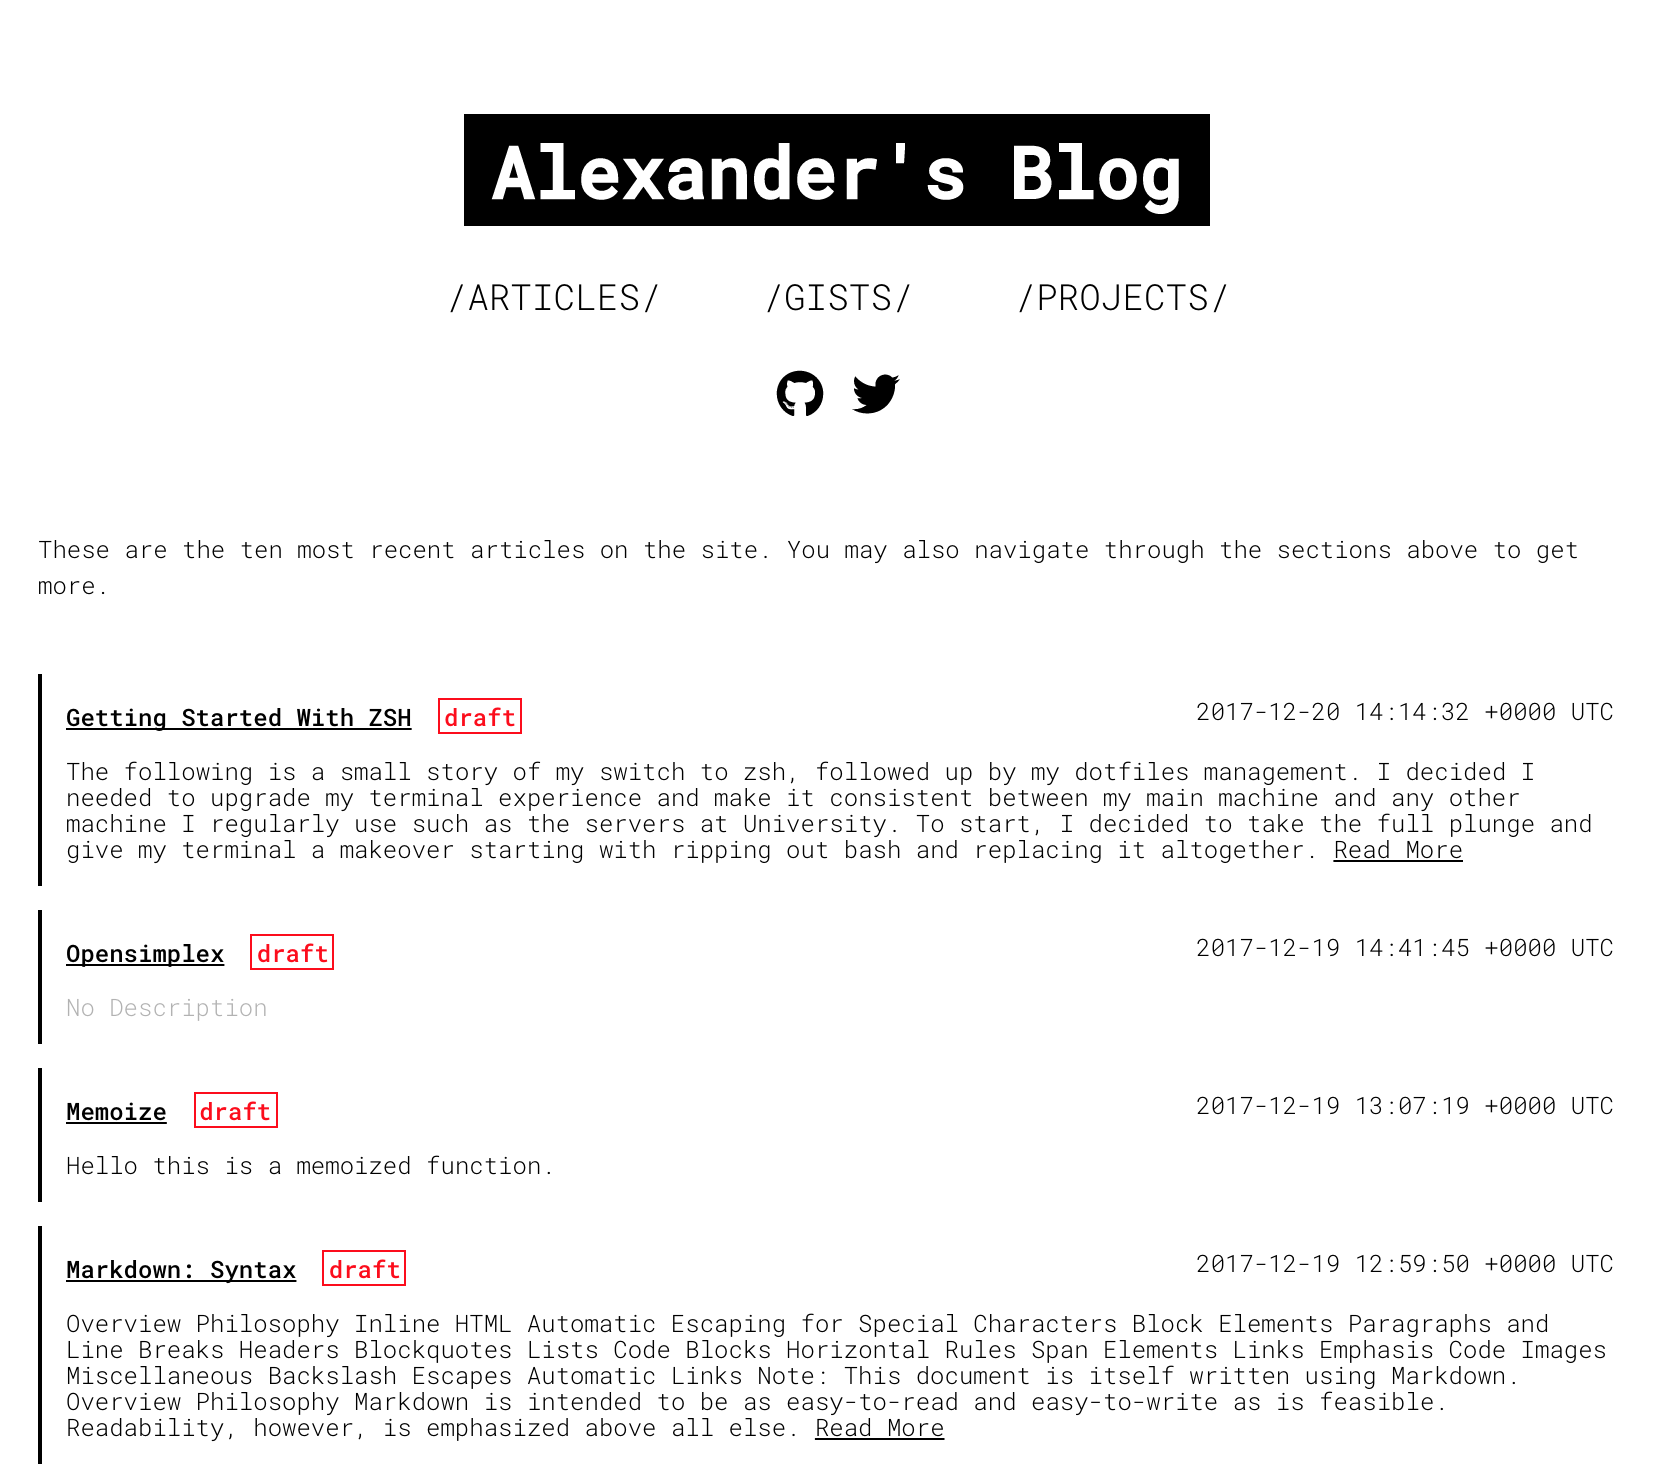
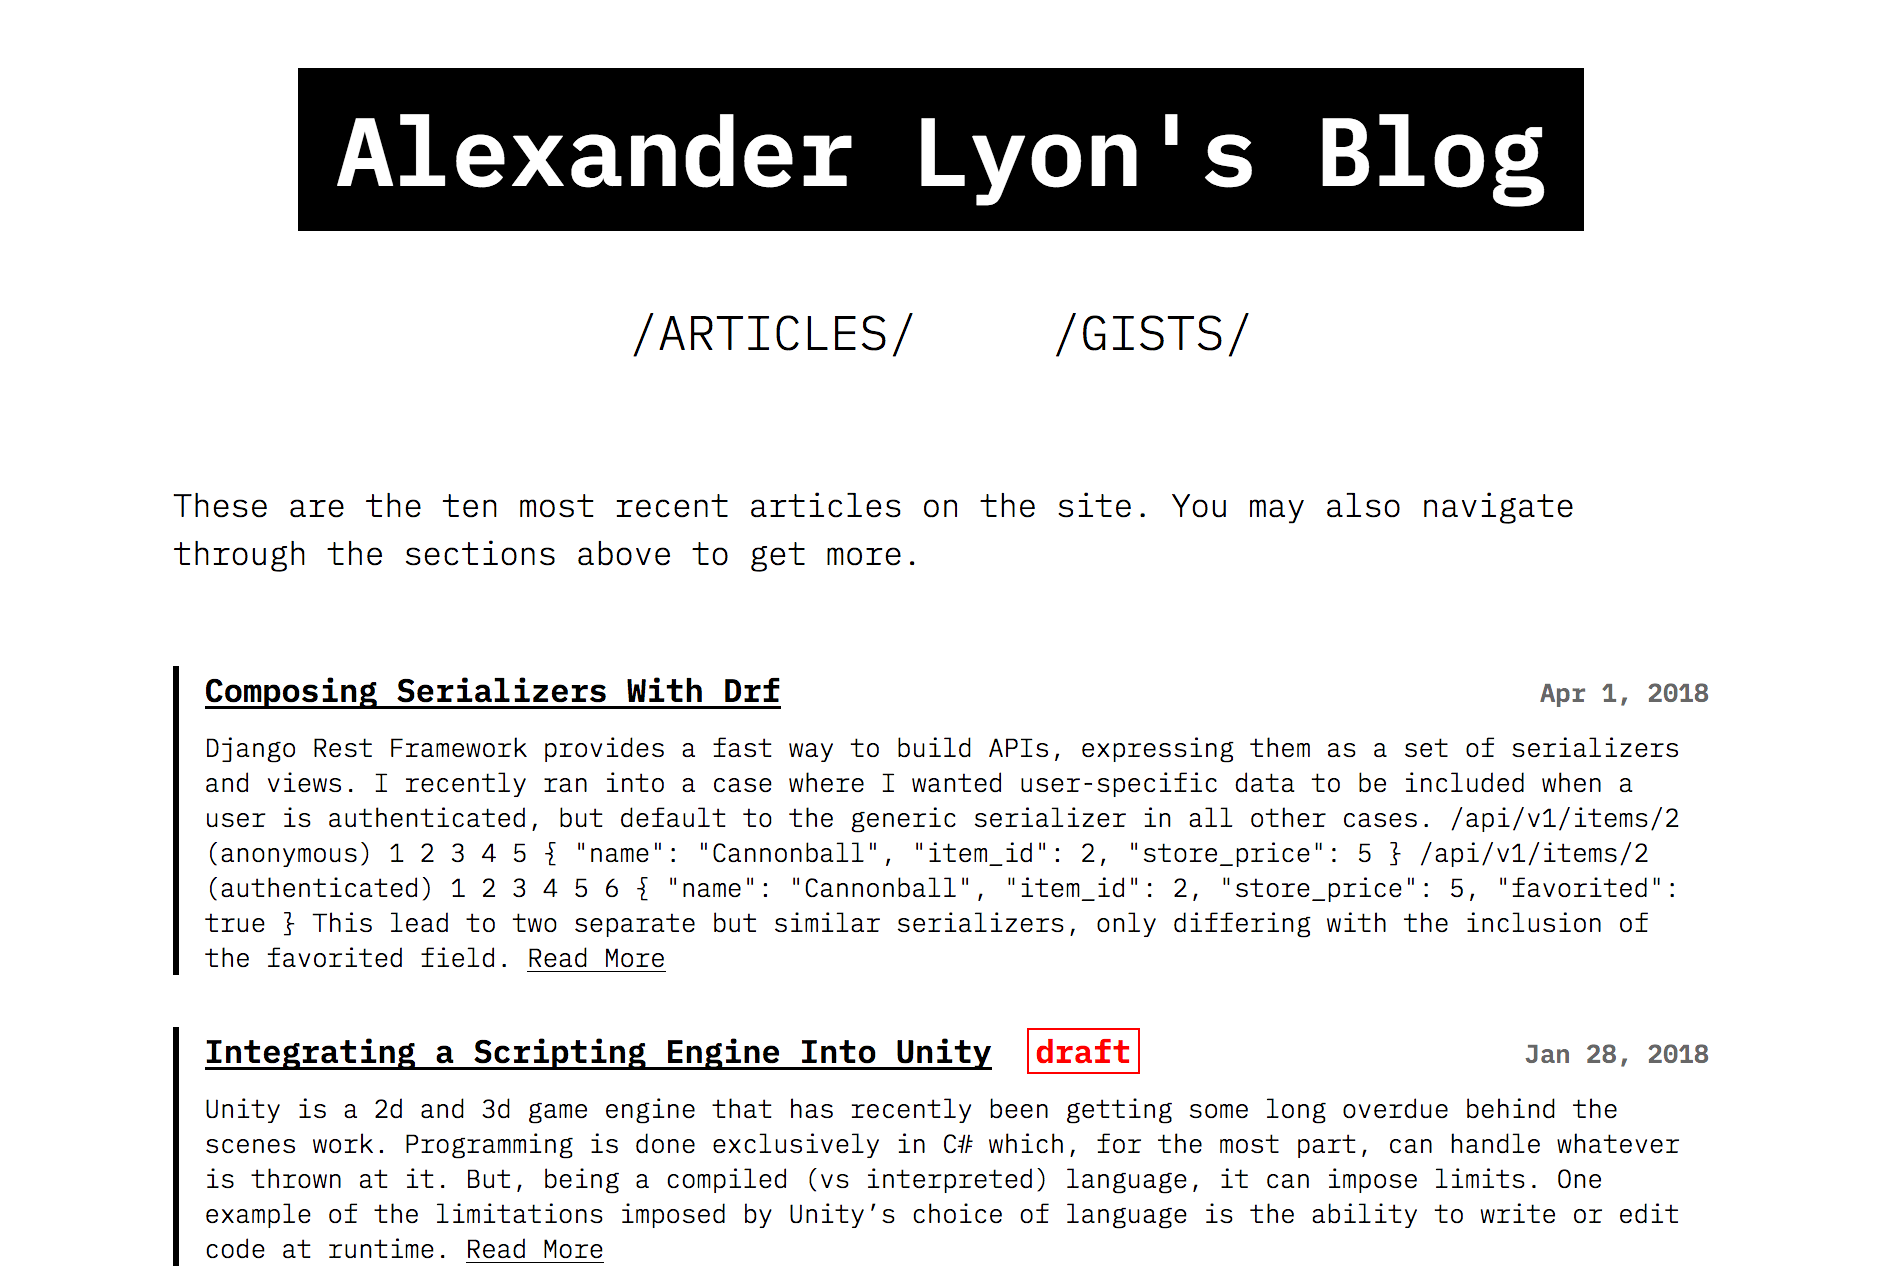
update readme
update image

diff --git a/README.md b/README.md
@@ -4,19 +4,33 @@ CAPSLOCK is a simple hugo theme for blog-like websites. It allows for good flexi
 having to jump behind and edit the theme directly, and supports a few extra archetypes out of 
 the box such as gists and projects. To see an example site, visit https://github.com/arlyon/arlyon.co
 
-![Example Picture](image.png)
+### Blog Mode
+
+![Blog Mode](image.png)
+
+### CV Mode
+
+![CV Mode](image2.png)
 
 ## Features
 
 - Draft Indicator.
 - Tags and Categories.
-- Gist Archetype.
-- Project Archetype.
+- Archetypes:
+    - articles
+    - gists
+    - projects
+    - employment
+    - education
+    - responsibility
+    - cover letter
 - Customizable fore- and background colors.
 - Optional read time.
 - Optional (and flexible) font awesome integration.
 - Netlify HTTP/2 headers for css
 - CV Mode
+    - full tagging to list technologies
+    - optional "pinning" so that not everything is on the dashboard
 - Web Manifest and Favicon Support
 - Service worker and offline mode
 
@@ -42,16 +56,33 @@ theme = "CAPSLOCK"
 sectionPagesMenu = "main"
 pygmentsOptions = "linenos=inline"
 pygmentsStyle = "bw"
+pygmentsUseClasses = true
+pygmentsCodeFences = true
 
 [params]
+    author = "Alexander Lyon"
+    description = "A resume."
+    foreground = "#000"
     show_read_time = true
     show_contact_in_head = true
     show_contact_in_footer = true
     foreground = "#000"
-    cv = false
     service_worker = true
     fontawesome_sets = ["brands", "solid"]
     copyright = "no monkeys (or typewriters) were harmed in the making of this site"
+
+[params.cv]
+    enabled = true
+    sections = ["projects", "employment", "education", "responsibilities"]
+
+[params.cv.data]
+    location = "Edinburgh"
+    site = "https://blog.arlyon.co"
+    email = "arlyon@me.com"
+    github = "arlyon"
+    gitlab = "git.arlyon.co"
+    currently = "Comp.Eng @ Heriot Watt"
+    blurb = "A tech and open source enthusiast."
 
 [[params.contact]]
     icon_type = "fab"
@@ -65,19 +96,29 @@ pygmentsStyle = "bw"
     link = "https://www.twitter.com/_arlyon/"
     text = "TW"
 
-[[params.contact]]
-    icon_type = "fas"
-    icon_name = "envelope"
-    link = "mailto:arlyon@me.com"
-    text = "@"
+[outputs]
+    home = [ "HTML", "RSS", "HEADERS" ]
+    page = [ "HTML" ]
+
+[mediaTypes]
+    [mediaTypes."text/netlify"]
+    suffixes = [""]
+    delimiter = ""
+
+[outputFormats]
+    [outputFormats.HEADERS]
+    mediatype = "text/netlify"
+    baseName = "_headers"
+    isPlainText = true
+    notAlternative = true
 ```
 
 ### CV Mode
 
 The theme supports "CV mode" that takes a set of data and displays it. The data is split into categories, an example of
 which you can find [here](https://github.com/arlyon/resume). It is unique in that it is possible to write cover letters
-that can be inserted dynamically into the document alongside the CV such that it is possible to write cover letter documents
-for each potential application. 
+that can be inserted dynamically into the document alongside the CV. This means that it is possible to write cover letter
+documents for each potential application.
 
 ### Favicons
 
